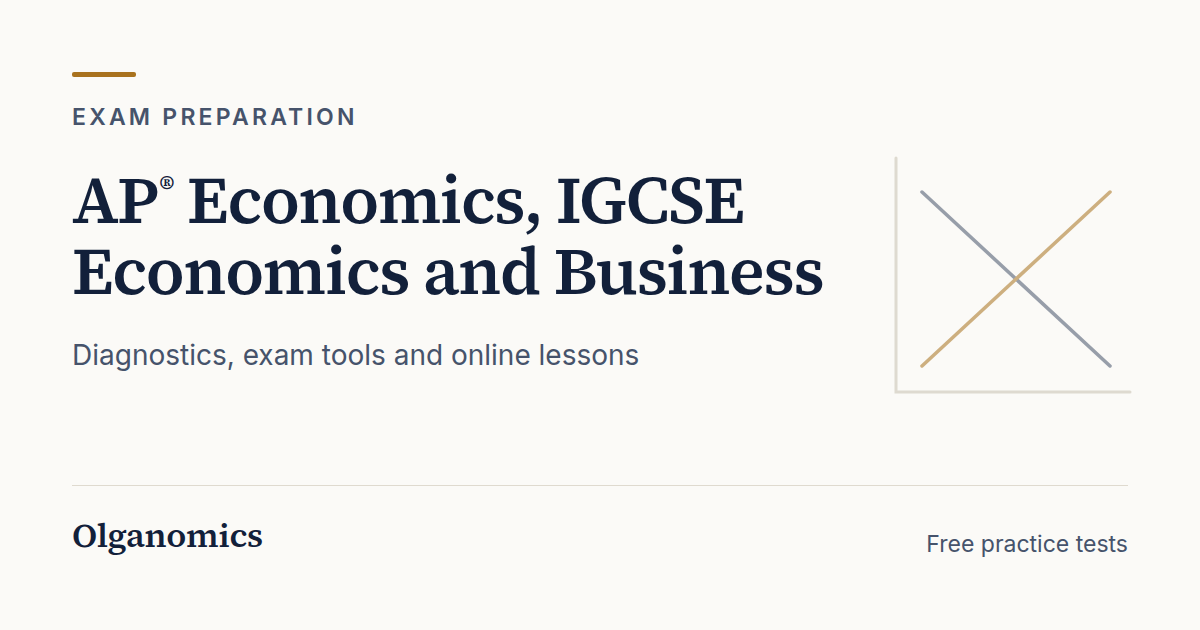
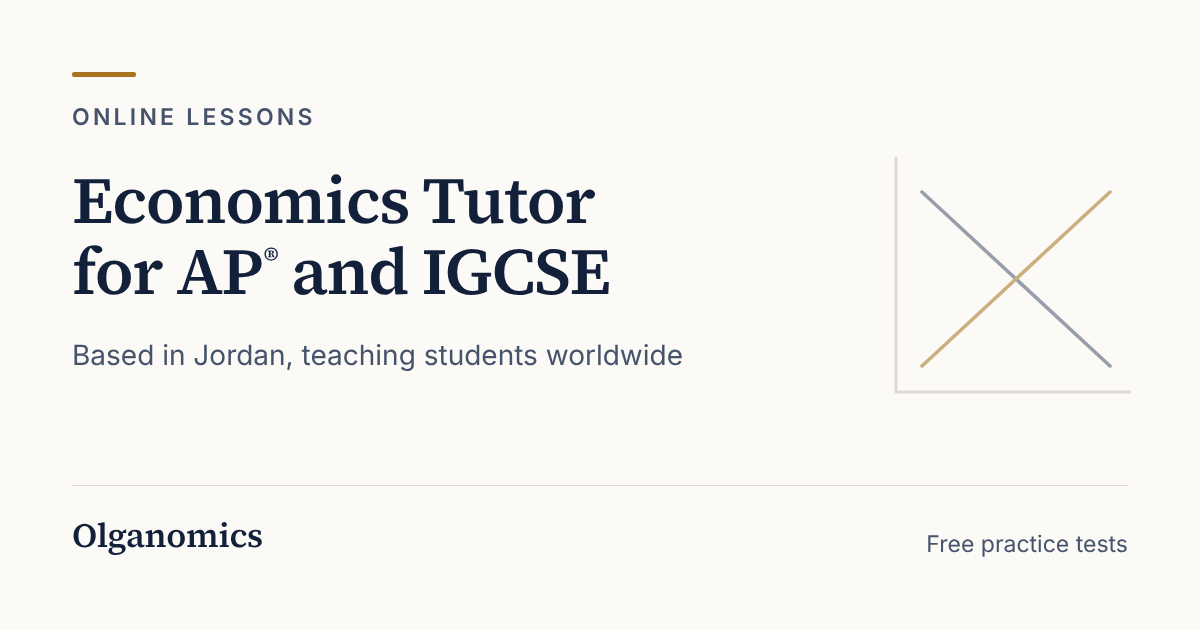
feat: add seo words

diff --git a/src/app/page.tsx b/src/app/page.tsx
@@ -36,7 +36,7 @@ export const metadata: Metadata = pageMetadata({
   // А в карточке превью бренд лишний в третий раз: мессенджер и так
   // показывает его отдельной строкой из og:site_name, и получалось бы
   // «Olganomics» дважды в одной карточке размером с ладонь.
-  ogTitle: 'AP® Economics, IGCSE Economics and Business',
+  ogTitle: 'Online Economics Tutor for AP® and IGCSE',
   description: SITE_DESCRIPTION,
   path: '/',
 });
@@ -61,8 +61,10 @@ export default function Home() {
         </div>
 
         <div className="flex flex-col gap-5 md:col-start-1 md:row-start-1">
+          {/* Надзаголовок называет услугу словами поиска. Бренд отсюда ушёл:
+              он и так стоит в шапке, а место рядом с H1 дороже. */}
           <p className="text-[11px] font-semibold uppercase tracking-[0.13em] text-ochre">
-            {TEACHER.brand} · <Reg>AP® Economics</Reg>
+            <Reg>{TEACHER.homeEyebrow}</Reg>
           </p>
           {/* text-balance выравнивает строки заголовка по длине — иначе
               последнее слово повисает в одиночестве на своей строке. */}
@@ -146,6 +148,30 @@ export default function Home() {
           the unit your child is studying, then a breakdown of exactly which topics are costing
           marks. No account, nothing to pay, and no call unless you ask for one.
         </p>
+        {/* ВНУТРЕННИЕ ССЫЛКИ ИЗ ТЕЛА СТРАНИЦЫ. Главная — единственная страница
+            в индексе, и только через неё робот доходит до остальных. До этой
+            правки в теле стояли две ссылки, обе на страницу тестов; к
+            калькулятору, плану, разделу вопросов и странице «Об Ольге» вёл
+            только подвал — самый слабый сигнал из возможных. Ссылки —
+            текстом, а не кнопками: действие в блоке одно (принцип 1), а это
+            навигация. Текст ссылки называет страницу так, как её ищут. */}
+        <p className="max-w-measure text-pretty text-[16px] leading-relaxed text-ink-soft">
+          Two more free tools you can pass on: an{' '}
+          <Link
+            href="/ap-microeconomics-score-calculator"
+            className="font-medium text-ink underline decoration-ochre underline-offset-2"
+          >
+            <Reg>AP® Microeconomics score calculator</Reg>
+          </Link>{' '}
+          that turns a practice-exam result into the 1–5 it points to, and a{' '}
+          <Link
+            href="/ap-microeconomics-study-plan"
+            className="font-medium text-ink underline decoration-ochre underline-offset-2"
+          >
+            week-by-week study plan
+          </Link>{' '}
+          for however long is left before the exam.
+        </p>
 
         {/* Две кнопки — две степени готовности. Тест ничего не стоит и не
             требует решения, поэтому он идёт первым и контурной кнопкой.
@@ -165,7 +191,7 @@ export default function Home() {
             {TEACHER.parentSessionOffer} You can also write to me at{' '}
             <a
               href={`mailto:${CTA.email}`}
-              className="font-medium text-ochre underline underline-offset-2"
+              className="font-medium text-ink underline decoration-ochre underline-offset-2"
             >
               {CTA.email}
             </a>
@@ -183,6 +209,22 @@ export default function Home() {
         </p>
         <p className="max-w-measure text-pretty text-[16px] leading-relaxed text-ink-soft">
           {TEACHER.approach}
+        </p>
+        <p className="max-w-measure text-pretty text-[16px] leading-relaxed text-ink-soft">
+          {TEACHER.lessonsFormat}{' '}
+          <Link
+            href="/faq#online-economics-lessons-work"
+            className="font-medium text-ink underline decoration-ochre underline-offset-2"
+          >
+            How an online lesson works
+          </Link>
+          {' · '}
+          <Link
+            href="/about-olga-shalamai"
+            className="font-medium text-ink underline decoration-ochre underline-offset-2"
+          >
+            More about my background
+          </Link>
         </p>
 
         {/* Те же кнопки, что в блоке «Keep AP® Economics in your feed» на экране
@@ -222,7 +264,7 @@ export default function Home() {
           <MailIcon className="h-4 w-4 text-ink-mute" />
           <a
             href={`mailto:${CTA.email}`}
-            className="font-medium text-ochre underline underline-offset-2"
+            className="font-medium text-ink underline decoration-ochre underline-offset-2"
           >
             {CTA.email}
           </a>

diff --git a/src/config/site.ts b/src/config/site.ts
@@ -34,17 +34,41 @@ export const SITE_URL = 'https://olga-shalamai.vercel.app';
  * Имя берётся из TEACHER, чтобы решение про «Dr.» (TODO.md, раздел 0)
  * менялось в одном месте, а не расходилось с остальным сайтом.
  *
- * ЗАГОЛОВОК СОБРАН ИЗ СЛОВ ПЛАНА, НО В ДРУГОМ ПОРЯДКЕ. В плане он записан
- * как «Olganomics | AP Economics and IGCSE Business and Economics Support» —
- * это 677px, а Google обрезает заголовок примерно на 600px (Arial 20px) и
- * съел бы «IGCSE Economics» вместе с хвостом. Нынешние 569px влезают целиком.
- * Порядок тоже не косметика: первыми читаются слова, которые люди набирают
- * в поиске, а бренд «Olganomics» пока не ищет никто — ему место в конце,
- * где он работает подписью, а не тратит начало строки. Длину новой версии
- * проверять так же: Arial 20px, лимит ~600px (на телефоне ~580px).
+ * ПОЧЕМУ В ЗАГОЛОВКЕ «TUTOR» (12.10). До этого он был «AP® Economics, IGCSE
+ * Economics and Business | Olganomics», и слова «tutor» не было ни в нём, ни
+ * где-либо ещё на главной. А главная — единственная страница сайта, которую
+ * Google на тот момент проиндексировал (остальные десять стояли в
+ * «Discovered – currently not indexed»). То есть сайт репетитора был виден
+ * поиску одной страницей, и на ней не было слова, которым репетитора ищут.
+ *
+ * Разбор выдачи 12.10 показал, куда целиться. По запросам школьника
+ * («AP Microeconomics unit 4 practice test») сидят Fiveable и Varsity Tutors —
+ * новый домен их не обгонит. По запросам того, кто платит, — родителя,
+ * ищущего репетитора («AP economics tutor Jordan», «IGCSE economics tutor
+ * Jordan»), — выдача слабая: агрегаторы, анкеты из других стран и страница
+ * лондонского агентства, где «Amman» повторено ради поиска, а местных
+ * преподавателей нет. Настоящего репетитора из Иордании там нет вообще.
+ *
+ * ГЛАВНАЯ БЕРЁТ ШИРОКИЙ ЗАПРОС, ОТДЕЛЬНЫЕ СТРАНИЦЫ — УЗКИЕ. Здесь «Online
+ * Economics Tutor» плюс оба экзамена. Будущая /ap-economics-tutor (TODO,
+ * раздел 3) возьмёт «AP® Economics Tutor», страницы IGCSE — свои. Если две
+ * страницы сайта целятся в одну фразу, Google не показывает уверенно ни
+ * одну: они делят между собой то немногое, что у сайта есть.
+ *
+ * Страны в заголовке нет намеренно: Ольга живёт в Иордании, но учит онлайн
+ * учеников по всему миру (подтвердила Елена 12.10; то же следует из её
+ * ответа 48 в QUESTIONS.md). Страна в заголовке отрезала бы всех, кто ищет
+ * репетитора не из Иордании. «Based in Jordan, teaching worldwide» стоит в
+ * описании и в тексте страницы — там, где это правда и где это прочтут.
+ *
+ * ДЛИНА. Google рисует заголовок шрифтом Arial 20px и обрезает около 600px,
+ * на телефоне около 580px. Мерить Liberation Sans 20px — он метрически равен
+ * Arial. Сейчас 516px. Бренд в конце: «Olganomics» пока никто не ищет, ему
+ * место подписи, а не начала строки. Описание Google режет около 920px
+ * (Arial 14px): нынешнее — 136 знаков, 880px, показывается целиком.
  */
-export const SITE_TITLE = 'AP® Economics, IGCSE Economics and Business | Olganomics';
+export const SITE_TITLE = 'Online Economics Tutor for AP® and IGCSE | Olganomics';
 
 export const SITE_DESCRIPTION =
-  `Exam-focused AP® Economics, IGCSE Economics and IGCSE Business support with ${TEACHER.name}. ` +
-  'Take a free diagnostic or book a consultation.';
+  `Online AP® and IGCSE Economics and Business tutoring with ${TEACHER.name}, ` +
+  'based in Jordan and teaching worldwide. Free first session.';

diff --git a/src/config/teacher.ts b/src/config/teacher.ts
@@ -66,6 +66,17 @@ export const TEACHER = {
     'My teaching combines clear explanations, structured preparation, continuous support and proven exam strategies — ' +
     'understanding rather than memorisation.',
 
+  /** Надзаголовок первого экрана: кто она, словами, которыми её ищут.
+   *  Слова «tutor» на главной не было нигде, а главная — единственная
+   *  страница сайта в индексе Google. Пояснение у SITE_TITLE в site.ts. */
+  homeEyebrow: 'Online tutor · AP® and IGCSE Economics',
+
+  /** Формат уроков и география. Уроки вживую онлайн — её ответ 47 из
+   *  QUESTIONS.md. Живёт в Иордании, учеников берёт по всему миру —
+   *  подтвердила Елена 12.10. Сказано так, чтобы не утверждать «только
+   *  онлайн»: про очные уроки Ольга не писала ни да, ни нет. */
+  lessonsFormat: 'I’m based in Jordan and teach live online lessons for students around the world.',
+
   /** Заголовок главной. Её фраза с сайта, только «AP» приведено к правилам знака. */
   homeHeadline: 'Find out how to reach a 5 in AP® Economics',
   homeSubhead:
@@ -164,8 +175,9 @@ export const TEACHER = {
   /** Публикации со ссылками — ЖДЁТ ОТВЕТА ОЛЬГИ. Пустой массив — блока нет. */
   aboutPublications: [] as readonly { title: string; url: string; where: string }[],
 
-  /** Языки преподавания и страны учеников — ЖДЁТ ОТВЕТА ОЛЬГИ. */
-  aboutReach: '',
+  /** Где она и где её ученики. География подтверждена Еленой 12.10.
+   *  Языки преподавания — ЖДУТ ОТВЕТА ОЛЬГИ: когда пришлёт, дописать сюда. */
+  aboutReach: 'I’m based in Jordan and teach students around the world in live online lessons.',
 
   outcomesHeading: 'What students achieve with Olganomics',
 
